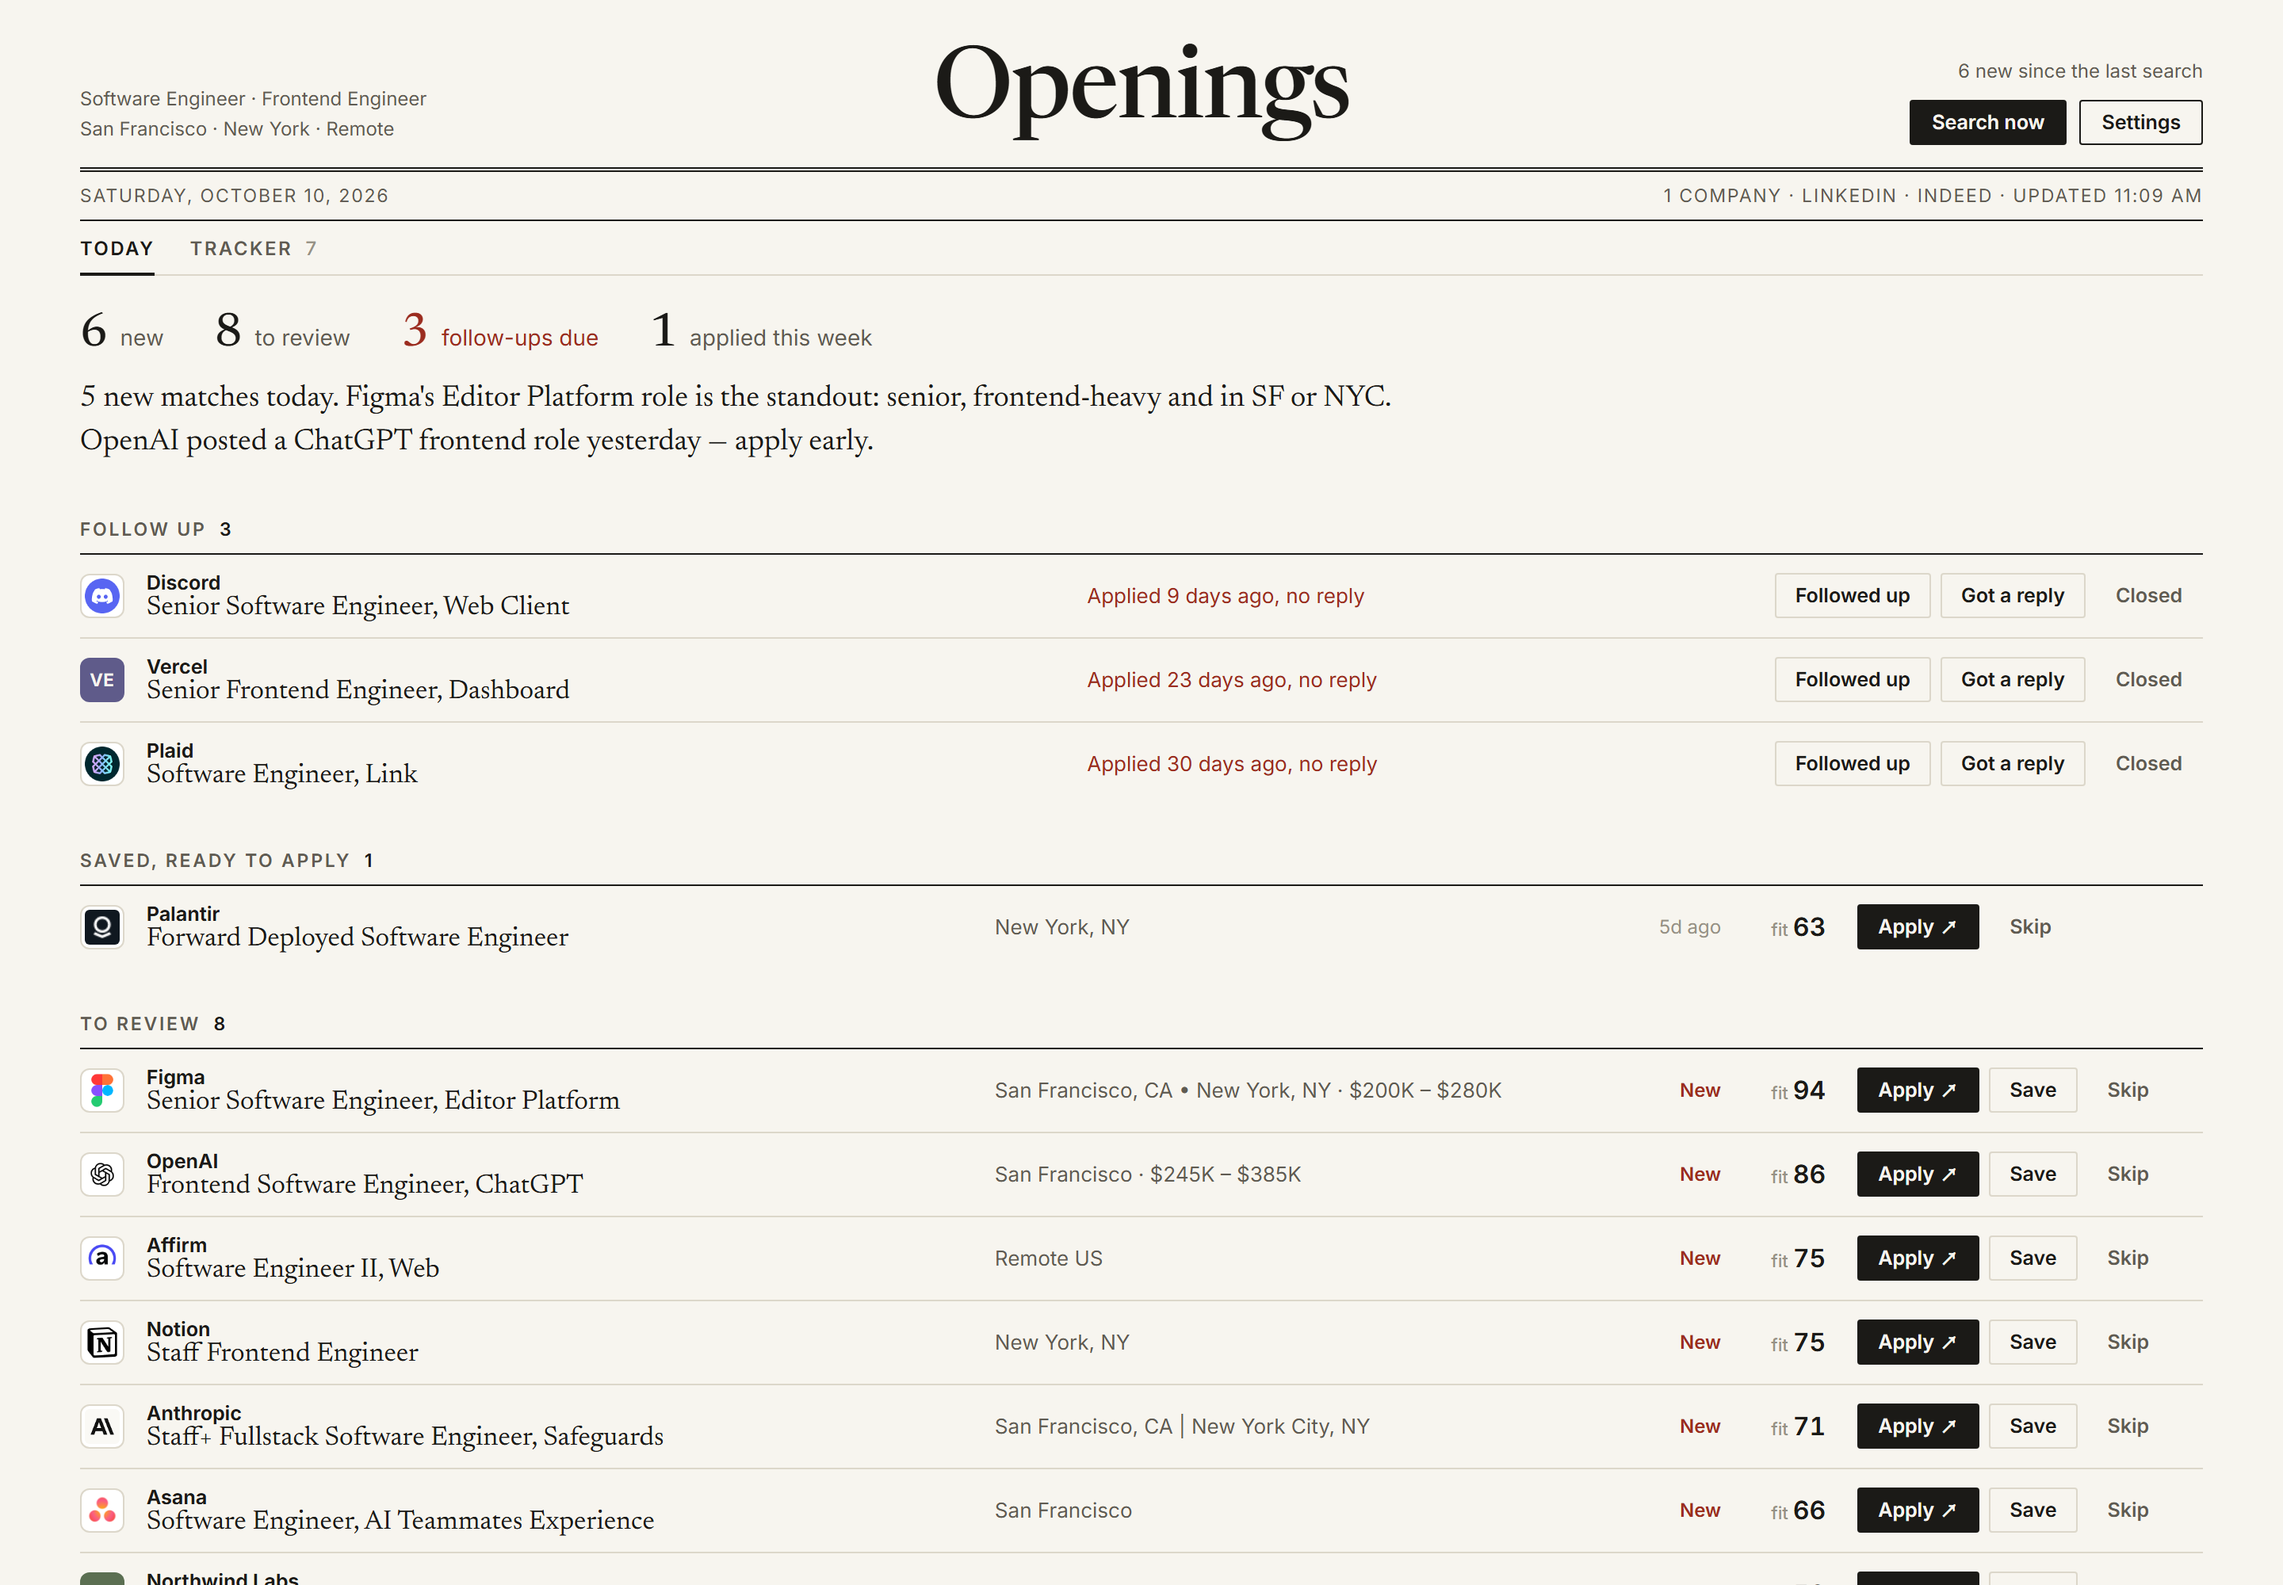
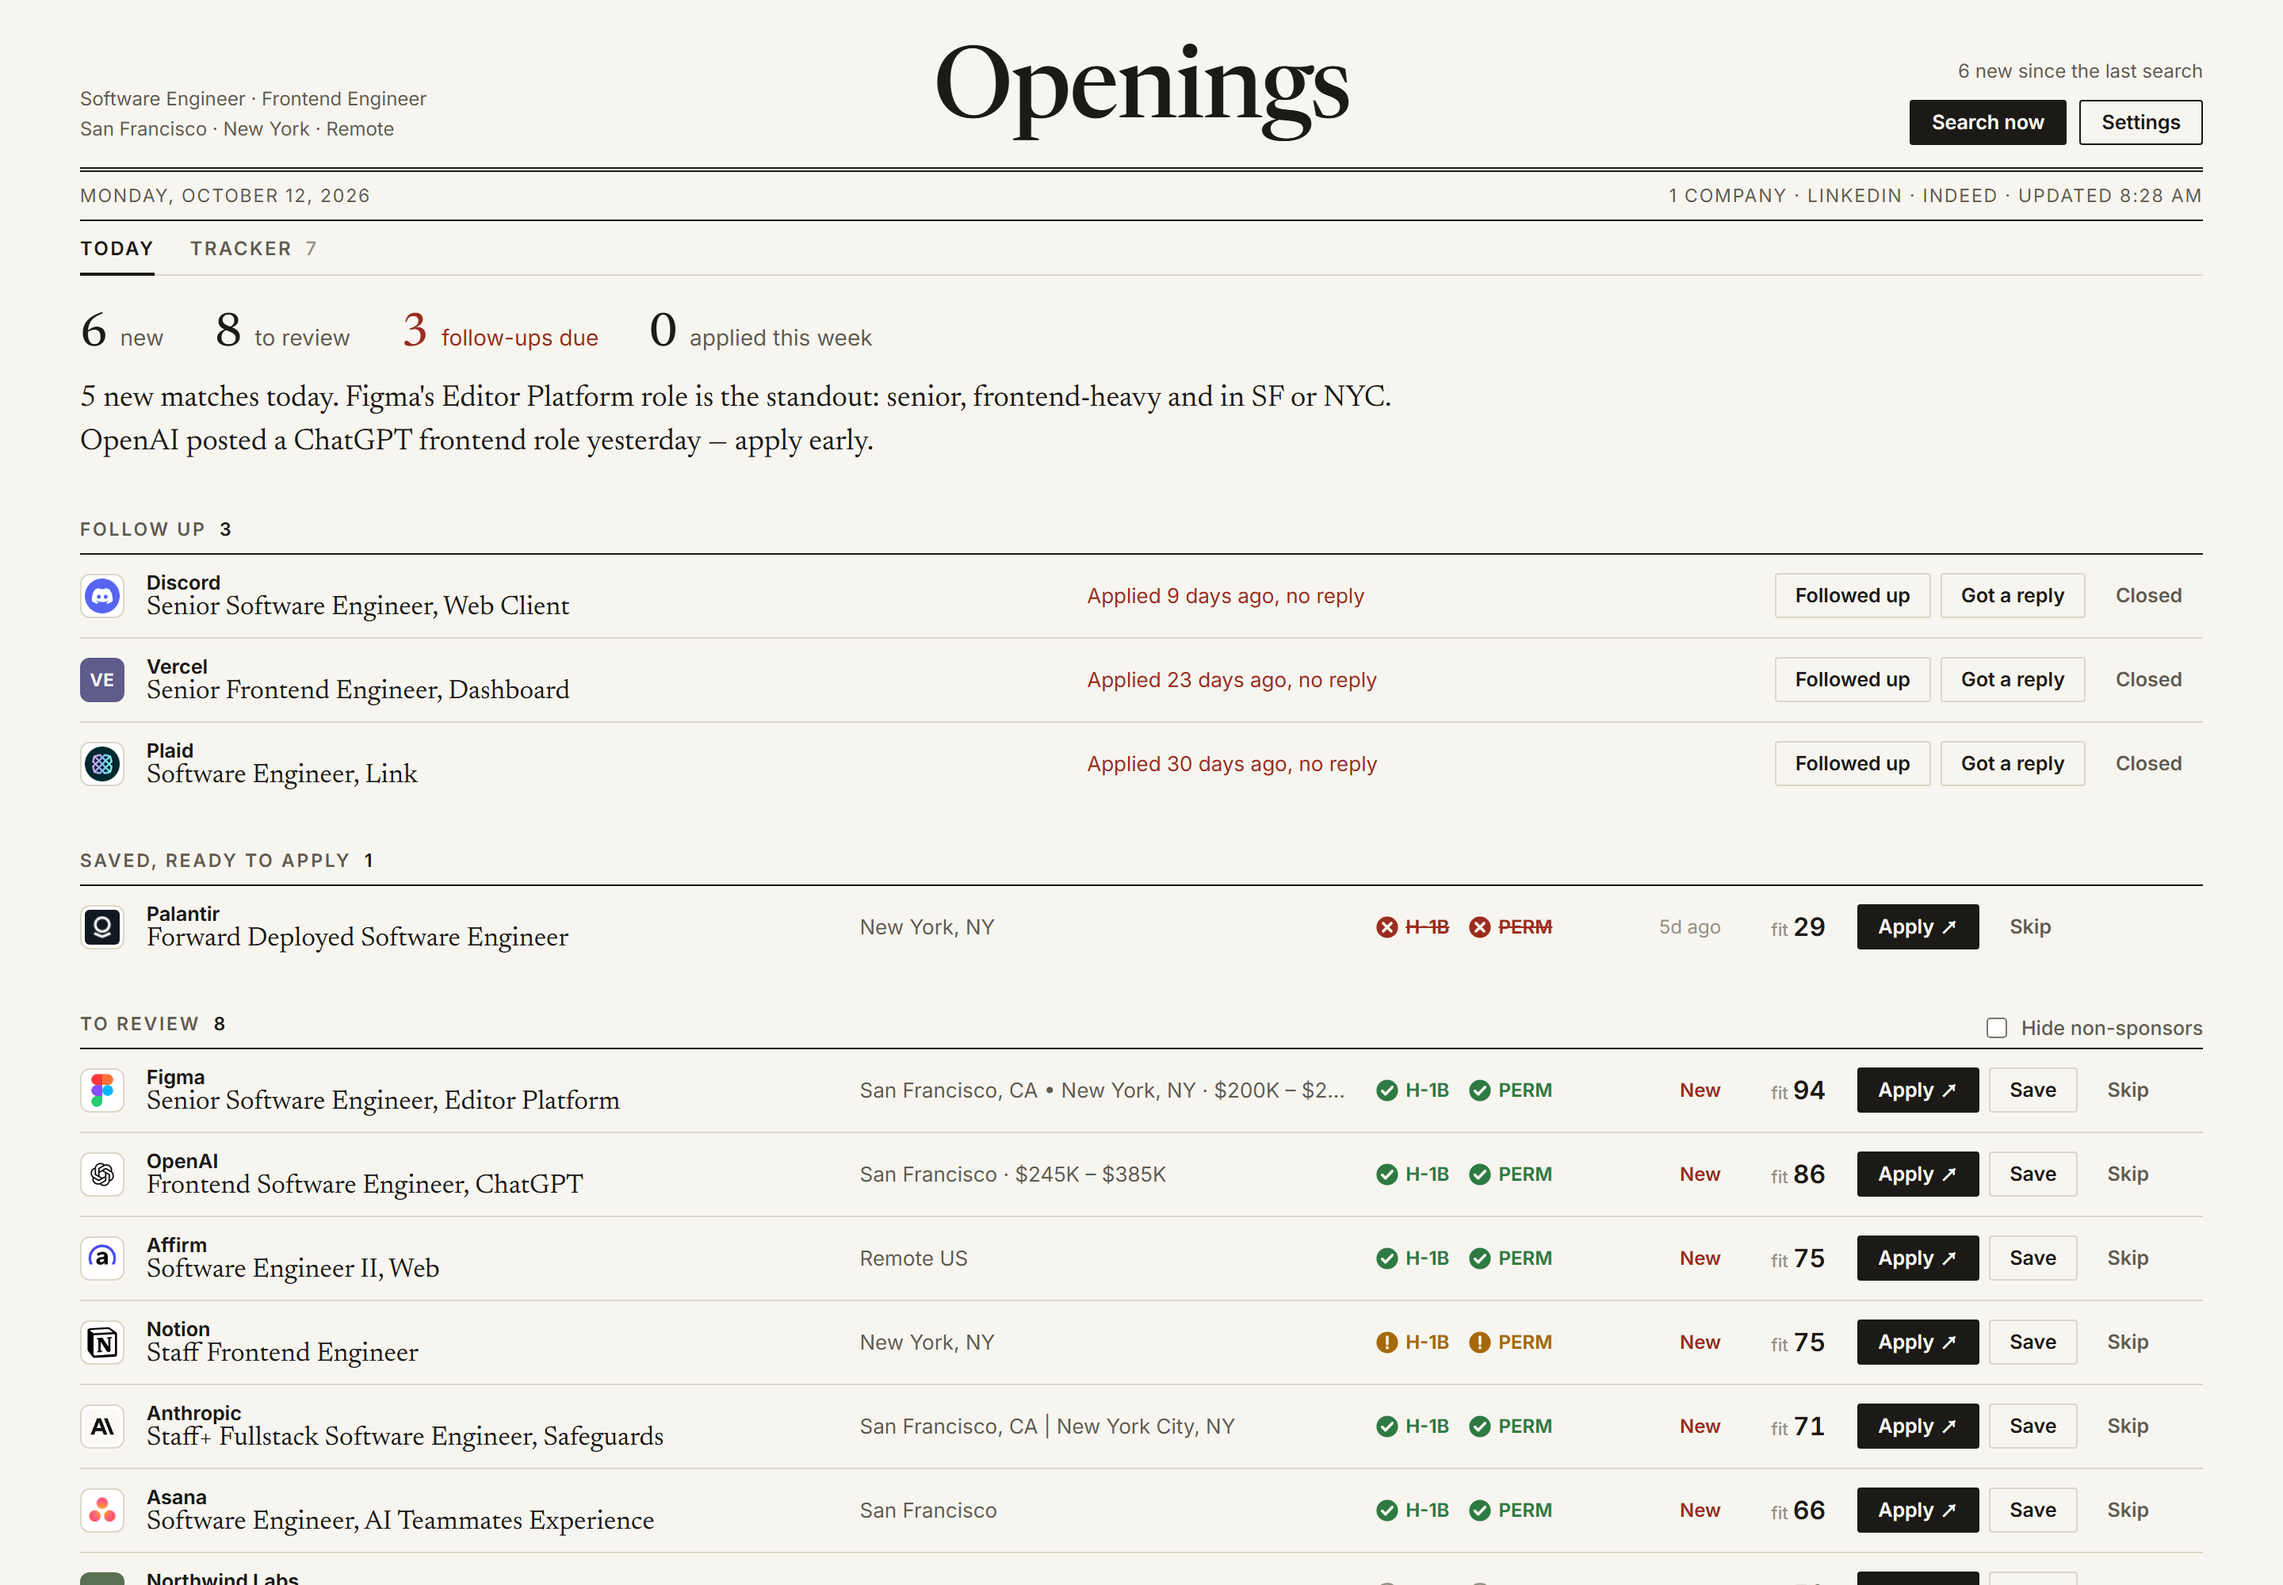
README screenshots with the visa marks
Retaken from the preview harness (1440x1000 and 1440x1100 at 2x, light
and dark) so the Today view shows the H-1B / PERM column. The alt text
mentions the marks.

diff --git a/README.md b/README.md
@@ -4,7 +4,7 @@
 
 <picture>
   <source media="(prefers-color-scheme: dark)" srcset="docs/front-page-dark.png">
-  <img alt="The Today view: counts for the day, the agent's one-line summary, follow-ups due, saved jobs, then every open match on one line with Apply, Save and Skip." src="docs/front-page.png">
+  <img alt="The Today view: counts for the day, the agent's one-line summary, follow-ups due, saved jobs, then every open match on one line with H-1B and PERM sponsorship marks, Apply, Save and Skip." src="docs/front-page.png">
 </picture>
 
 <sub>Screenshots use demo data.</sub>
